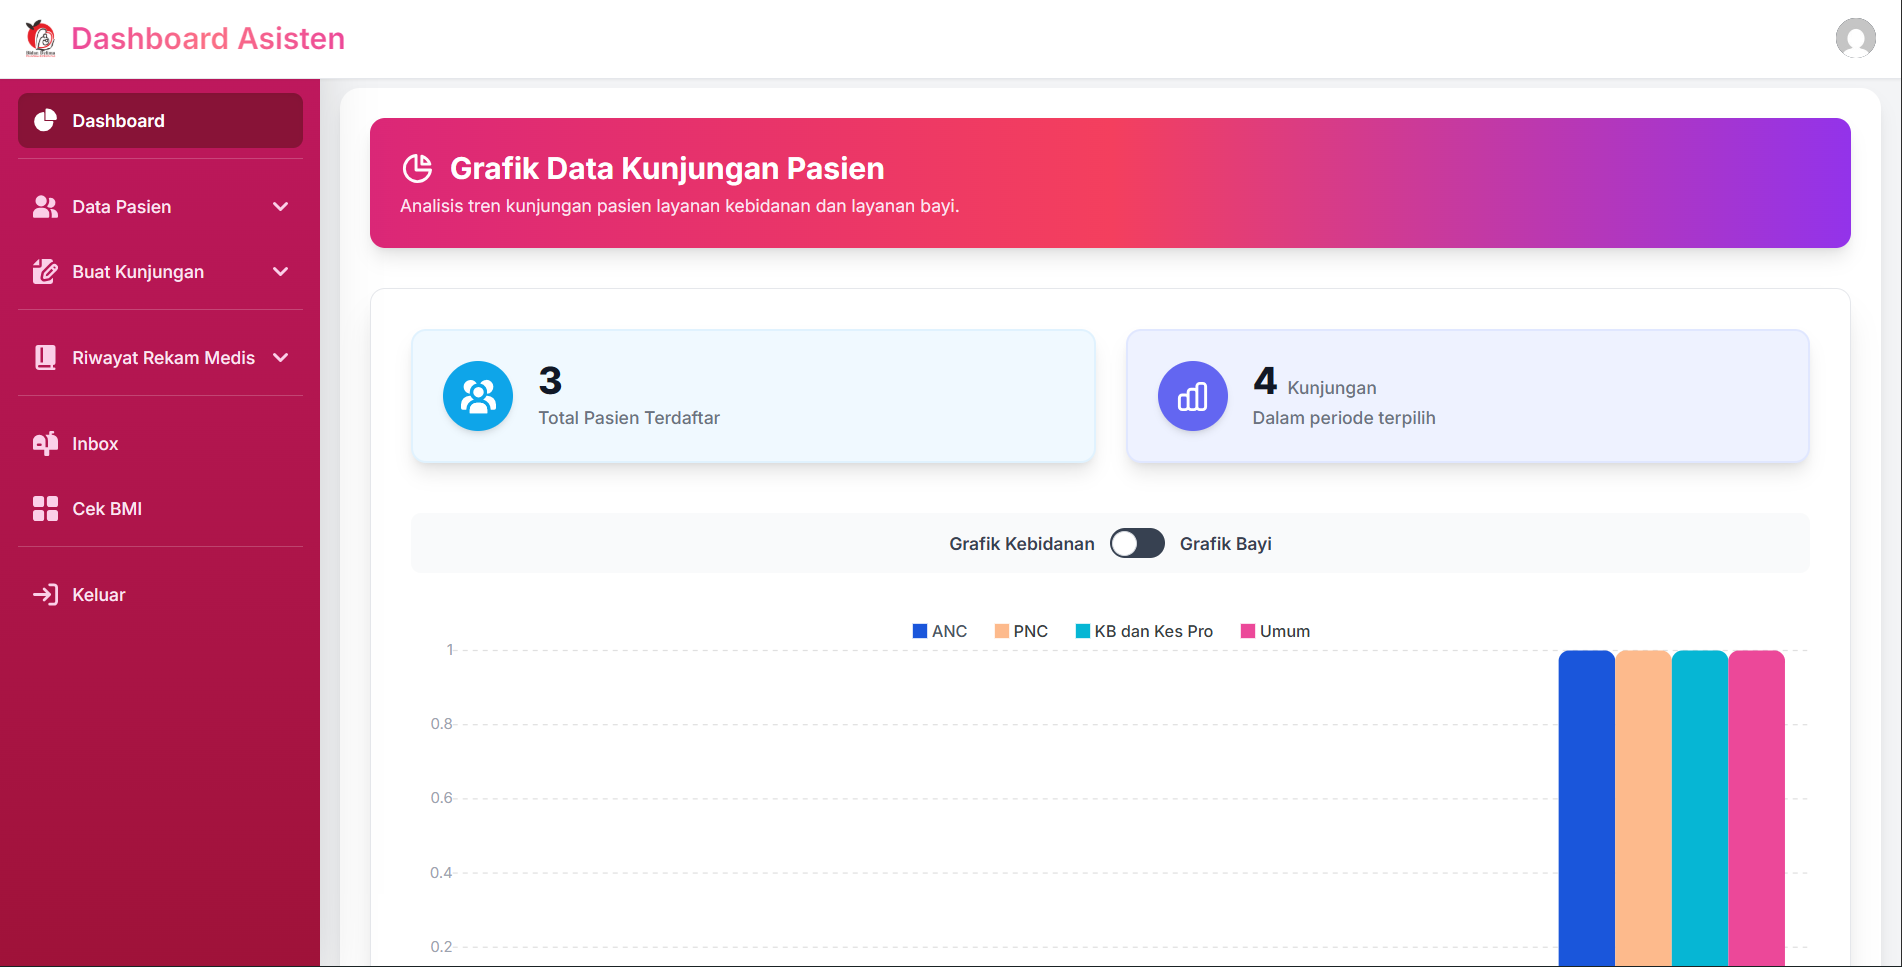
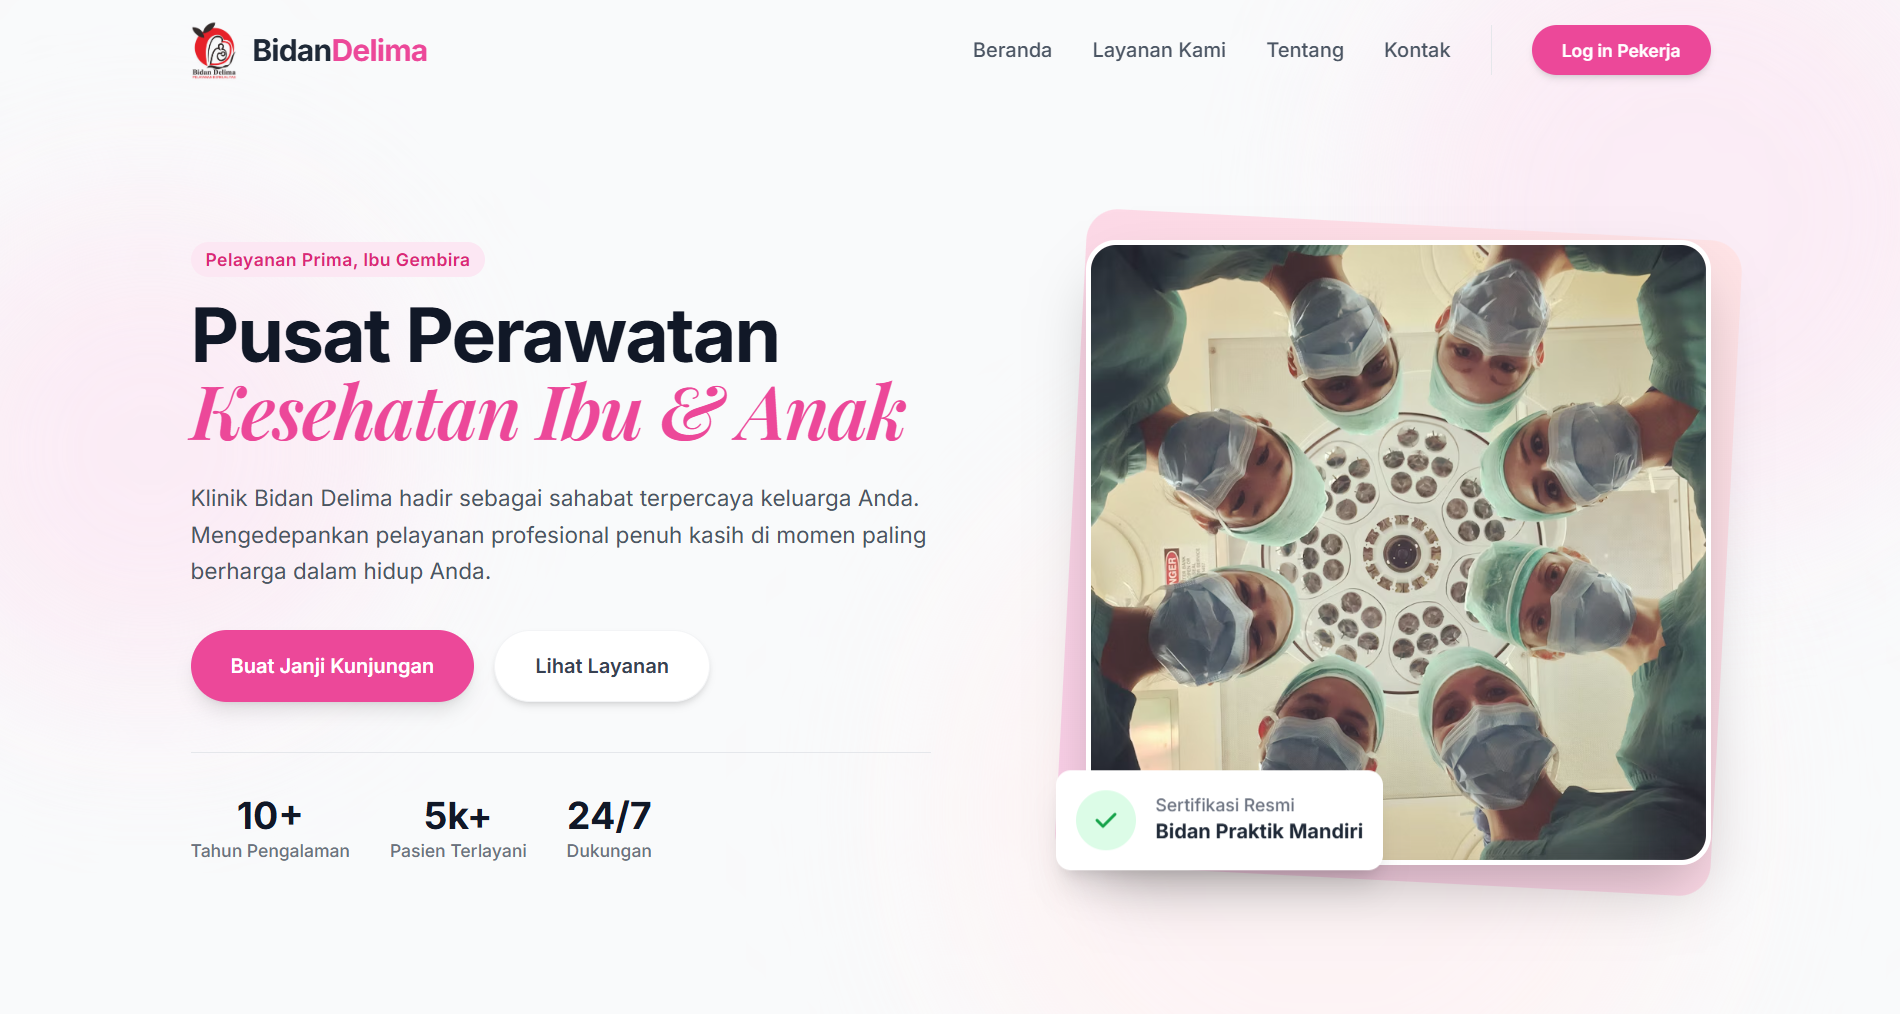
add recent project

diff --git a/components/ProjectBento.tsx b/components/ProjectBento.tsx
@@ -31,7 +31,7 @@ const projects: Project[] = [
         desc: "Modern digital wallet application design focusing on seamless money transfers and top-ups.",
         stack: [<SiFigma key="f" />],
         span: "md:col-span-1 md:row-span-1",
-        bg: "bg-[#1E1E2E] hover:bg-[#252538]",
+        bg: "bg-gradient-to-br from-cyan-400/40 to-slate-900",
         image: "/projects/wallet-mobile.png", // Keep original images if any, fallback handles missing
         galleryImages: ["/projects/wallet-mobile.png"],
         features: ["Intuitive User Flow", "Light & Dark Mode", "Interactive Prototyping"],
@@ -40,15 +40,17 @@ const projects: Project[] = [
     },
     {
         id: 2,
-        title: "E-Commerce Dashboard",
-        category: "Web Application",
-        desc: "Comprehensive admin dashboard for managing products, orders, and customer analytics in real-time.",
-        stack: [<SiReact key="r" />, <SiTailwindcss key="t" />, <SiNodedotjs key="n" />],
+        title: "Nihloh Coffee & Eatery",
+        category: "Landing Page",
+        desc: "High-performance landing page for F&B business focusing on SEO and responsive design.",
+        stack: [<SiNextdotjs key="nx" />, <SiTypescript key="ts" />, <SiTailwindcss key="t" />],
         span: "md:col-span-2 md:row-span-1",
-        bg: "bg-gradient-to-br from-indigo-900/40 to-slate-900",
-        // No image = fallback to watermark icon
-        features: ["Real-time Sales Charts", "Inventory Management", "Role-based Access Control"],
-        techDetails: "Built using React and Recharts for data visualization, backed by a robust Node.js REST API."
+        bg: "bg-gradient-to-br from-orange-700/40 to-slate-900",
+        image: "/projects/nihloh-1.png",
+        galleryImages: ["/projects/nihloh-1.png", "/projects/nihloh-2.png", "/projects/nihloh-3.png"],
+        features: ["Fully Responsive UI/UX", "Performance & SEO Optimized", "Strong Type Safety"],
+        techDetails: "Developed a high-performance landing page using Next.js and TypeScript, with Tailwind CSS for layout optimizations.",
+        externalLink: "https://nihlohcafe.vercel.app"
     },
     {
         id: 3,
@@ -57,9 +59,9 @@ const projects: Project[] = [
         desc: "Electronic medical records and patient management system for independent midwife practices.",
         stack: [<SiLaravel key="l" />, <SiMysql key="m" />, <SiTailwindcss key="t" />],
         span: "md:col-span-2 md:row-span-2",
-        bg: "bg-gradient-to-br from-blue-900/80 to-slate-900",
+        bg: "bg-gradient-to-br from-pink-900/80 to-slate-900",
         image: "/projects/emr-thumb.png",
-        galleryImages: ["/projects/emr-thumb.png", "/projects/emr-1.png", "/projects/emr-2.png"],
+        galleryImages: ["/projects/emr-1.png", "/projects/emr-2.png", "/projects/emr-3.png"],
         techDetails: "Built on Laravel 10 using MVC architecture. Normalized MySQL database handles thousands of patient records efficiently.",
         features: [
             "Patient & Medical Record Management",
@@ -70,14 +72,17 @@ const projects: Project[] = [
     },
     {
         id: 4,
-        title: "TaskFlow Manager",
-        category: "Productivity Tool",
-        desc: "A Kanban-style task management application with real-time collaboration features.",
-        stack: [<SiNextdotjs key="nx" />, <SiTypescript key="ts" />, <SiMongodb key="mdb" />],
+        title: "Noiia Studio",
+        category: "Creative Agency Website",
+        desc: "Immersive digital experience showcasing modern aesthetics and smooth interactions.",
+        stack: [<SiNextdotjs key="nx" />, <SiTypescript key="ts" />, <SiTailwindcss key="t" />],
         span: "md:col-span-1 md:row-span-1",
         bg: "bg-gradient-to-tr from-emerald-900/40 to-dark",
-        features: ["Drag and Drop Kanban Board", "Real-time Updates via WebSockets", "Team Workspaces"],
-        techDetails: "Utilizes Next.js App Router with Server Actions and MongoDB for seamless serverless data fetching."
+        image: "/projects/photo-studio-1.png",
+        galleryImages: ["/projects/photo-studio-1.png", "/projects/photo-studio-2.png", "/projects/photo-studio-3.png"],
+        features: ["Pixel-perfect Minimalist UI", "Smooth Interactions", "Optimized Image Rendering & CLS"],
+        techDetails: "Engineered using Next.js and TypeScript, focused on high-performance rendering and modern aesthetics.",
+        externalLink: "https://noiia-studio.vercel.app"
     },
     {
         id: 5,
@@ -104,11 +109,11 @@ const ProjectBento = () => {
 
     return (
         <section id="work" className="relative w-full min-h-screen bg-dark py-24 px-6 md:px-20 overflow-hidden font-sans border-t border-gray-800/50">
-            
+
             {/* Header */}
             <div className="max-w-7xl mx-auto mb-16 relative z-10 flex flex-col md:flex-row md:items-end justify-between gap-6 px-2">
                 <div>
-                    <motion.p 
+                    <motion.p
                         initial={{ opacity: 0, y: 10 }}
                         whileInView={{ opacity: 1, y: 0 }}
                         viewport={{ once: true }}
@@ -116,7 +121,7 @@ const ProjectBento = () => {
                     >
                         // Portfolio
                     </motion.p>
-                    <motion.h2 
+                    <motion.h2
                         initial={{ opacity: 0, y: 10 }}
                         whileInView={{ opacity: 1, y: 0 }}
                         viewport={{ once: true }}
@@ -126,7 +131,7 @@ const ProjectBento = () => {
                         Selected Works.
                     </motion.h2>
                 </div>
-                <motion.p 
+                <motion.p
                     initial={{ opacity: 0 }}
                     whileInView={{ opacity: 1 }}
                     viewport={{ once: true }}
@@ -138,7 +143,7 @@ const ProjectBento = () => {
             </div>
 
             {/* BENTO GRID */}
-            <motion.div 
+            <motion.div
                 initial="hidden"
                 whileInView="visible"
                 viewport={{ once: true, amount: 0.1 }}
@@ -160,9 +165,9 @@ const ProjectBento = () => {
             {/* PROJECT MODAL */}
             <AnimatePresence>
                 {selectedProject && (
-                    <ProjectModal 
-                        project={selectedProject} 
-                        onClose={() => setSelectedProject(null)} 
+                    <ProjectModal
+                        project={selectedProject}
+                        onClose={() => setSelectedProject(null)}
                     />
                 )}
             </AnimatePresence>
@@ -189,7 +194,7 @@ const ProjectCard = ({ project, onClick }: { project: Project, onClick: () => vo
 
             {/* Content Container */}
             <div className="absolute inset-0 p-6 md:p-8 flex flex-col justify-between z-20">
-                
+
                 {/* Top Tags */}
                 <div className="flex justify-between items-start">
                     <span className="px-3 py-1 bg-black/40 backdrop-blur-md rounded-full text-xs font-medium tracking-wide text-gray-300 border border-white/5">
@@ -208,7 +213,7 @@ const ProjectCard = ({ project, onClick }: { project: Project, onClick: () => vo
                     <p className="text-gray-300 text-sm md:text-base line-clamp-2 md:line-clamp-3 mb-5 max-w-lg opacity-0 group-hover:opacity-100 transition-opacity duration-300 delay-100 hidden md:block">
                         {project.desc}
                     </p>
-                    
+
                     {/* Tech Stack Bar */}
                     <div className="flex items-center gap-3 text-xl text-gray-400">
                         {project.stack.map((icon, i) => (
@@ -246,7 +251,7 @@ const swipePower = (offset: number, velocity: number) => Math.abs(offset) * velo
 
 const ProjectModal = ({ project, onClose }: { project: Project, onClose: () => void }) => {
     const [[page, direction], setPage] = useState([0, 0]);
-    
+
     // Prevent body scroll when modal opens
     useEffect(() => {
         document.body.style.overflow = 'hidden';
@@ -285,7 +290,7 @@ const ProjectModal = ({ project, onClose }: { project: Project, onClose: () => v
                 </button>
 
                 <div className="overflow-y-auto w-full h-full text-white">
-                    
+
                     {/* Header Image Slider */}
                     <div className="w-full h-[250px] md:h-[450px] relative flex items-center justify-center bg-gray-900 group overflow-hidden">
                         {activeImages.length === 0 ? (
@@ -338,7 +343,7 @@ const ProjectModal = ({ project, onClose }: { project: Project, onClose: () => v
                     {/* Content Details */}
                     <div className="p-6 md:p-12 md:-mt-10 relative z-20">
                         <div className="grid grid-cols-1 lg:grid-cols-3 gap-12">
-                            
+
                             {/* Main Info */}
                             <div className="lg:col-span-2 space-y-6">
                                 <div>
@@ -348,7 +353,7 @@ const ProjectModal = ({ project, onClose }: { project: Project, onClose: () => v
                                 <p className="text-gray-300 text-lg leading-relaxed text-justify">
                                     {project.desc}
                                 </p>
-                                
+
                                 {project.techDetails && (
                                     <div className="mt-8 p-6 bg-gray-900 border border-gray-800 rounded-2xl">
                                         <h4 className="text-white font-bold mb-3">Technical Overview</h4>

diff --git a/components/AboutMe.tsx b/components/AboutMe.tsx
@@ -15,9 +15,9 @@ const experiences = [
     {
         id: 2,
         role: "Web Developer Intern",
-        company: "Ministry of Investment | BKPM",
+        company: "Master of Information Systems | Diponegoro University",
         date: "Feb 2025 – Apr 2025",
-        desc: "Updated and maintained department website using WordPress. Collaborated with cross-functional teams.",
+        desc: "Updated and maintained the department website using WordPress technology. Collaborated with cross-functional teams to enhance project delivery and website performance.",
     },
     {
         id: 3,
@@ -121,12 +121,12 @@ const AboutMe = () => {
                         </div>
 
                         <div className="relative ml-2 md:ml-4 space-y-12 pb-4">
-                            
+
                             {/* Vertical Line for About Me */}
                             <div ref={lineRef} className="absolute left-0 top-2 -bottom-24 md:-bottom-32 w-0.5 bg-gray-800/30 origin-top z-0">
-                                <motion.div 
-                                    style={{ scaleY: scrollYProgress }} 
-                                    className="w-full h-full bg-linear-to-b from-primary via-secondary to-primary origin-top shadow-[0_0_15px_rgba(0,240,255,0.6)]" 
+                                <motion.div
+                                    style={{ scaleY: scrollYProgress }}
+                                    className="w-full h-full bg-linear-to-b from-primary via-secondary to-primary origin-top shadow-[0_0_15px_rgba(0,240,255,0.6)]"
                                 />
                             </div>
 
